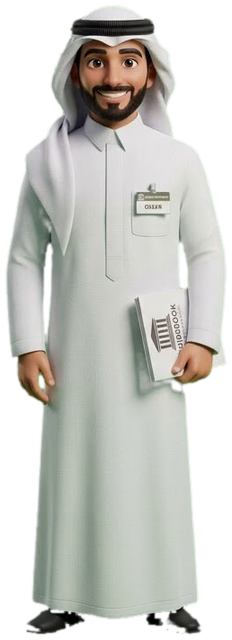
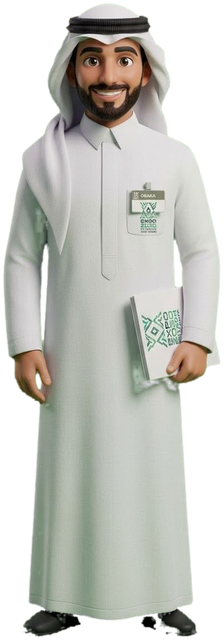
New look for Saad, architecture and page-flow diagrams
- Saad's picture replaced; cutout.py --keep-inside removes only the green
  screen (and same-coloured gaps), keeping the green Expo logo on his badge
- docs/architecture: how Saad works (page, our server, Gemini)
- docs/user-flow: the pages for the UX team (remote visit, memories, account),
  marking what is built and what still needs design

diff --git a/scripts/cutout.py b/scripts/cutout.py
@@ -4,6 +4,7 @@ The page shows web/guide.png instead of the drawn guide when the file exists (we
 
     python scripts/cutout.py guide_green.png                 # writes web/guide.png
     python scripts/cutout.py photo.jpg --key 255 255 255     # a flat white background instead of green
+    python scripts/cutout.py guide.jpg --keep-inside         # he wears something green (a logo): keep it
 
 Ask the image tool for "a perfectly flat, uniform pure chroma green (#00FF00) background": a white background
 is harder, because the white thobe touches it.
@@ -15,7 +16,7 @@ import numpy as np
 from PIL import Image, ImageFilter
 
 
-def cutout(src, key, tolerance, height):
+def cutout(src, key, tolerance, height, keep_inside=False):
     im = np.asarray(Image.open(src).convert("RGB")).astype(np.float32)
     key = np.array(key, dtype=np.float32)
     green = key[1] > key[0] + 60 and key[1] > key[2] + 60
@@ -28,10 +29,30 @@ def cutout(src, key, tolerance, height):
         dist = np.sqrt(((im - key) ** 2).sum(axis=2))
         # soft edge: fully clear near the key colour, fully solid a little further away
         alpha = np.clip((dist - tolerance) / (tolerance * 0.6), 0, 1)
+    near = np.ones(alpha.shape, bool)
+    if green and keep_inside:
+        # Only the screen goes, not green that is part of him (a logo on his badge or book). The screen is the
+        # green touching the picture's edges, plus enclosed patches of the same light green (the gap between an
+        # arm and the body). A logo's green is darker and stays solid, with its colour.
+        from scipy import ndimage
+        patches, n = ndimage.label(alpha < 0.5)
+        edge = set(np.unique(np.concatenate([patches[0], patches[-1], patches[:, 0], patches[:, -1]]))) - {0}
+        screen_colour = np.median(im[np.isin(patches, list(edge))], axis=0)
+        ids = np.arange(1, n + 1)
+        size = ndimage.sum(np.ones_like(patches), patches, ids)
+        colour = np.stack([ndimage.mean(im[..., c], patches, ids) for c in range(3)], axis=1)
+        alike = np.linalg.norm(colour - screen_colour, axis=1) < 30
+        light = (size >= 100) & (colour[:, 1] > 95)
+        is_screen = np.zeros(n + 1, bool)
+        is_screen[ids] = alike | light
+        is_screen[list(edge)] = True
+        screen = is_screen[patches] & (patches > 0)
+        alpha = np.where((patches > 0) & ~screen, 1.0, alpha)            # green that is part of him: keep
+        near = np.asarray(Image.fromarray((screen * 255).astype(np.uint8)).filter(ImageFilter.MaxFilter(9))) > 0
     if green:
         # green spill on the edges of white cloth and hair: pull green down to the other channels
         g_max = np.maximum(im[..., 0], im[..., 2])
-        im[..., 1] = np.minimum(im[..., 1], g_max + 12)
+        im[..., 1] = np.where(near, np.minimum(im[..., 1], g_max + 12), im[..., 1])
     rgba = np.dstack([im, alpha * 255]).astype(np.uint8)
     out = Image.fromarray(rgba, "RGBA")
     a = out.getchannel("A").filter(ImageFilter.MinFilter(3)).filter(ImageFilter.GaussianBlur(0.8))
@@ -54,8 +75,10 @@ def main():
                    help="Background colour to remove (default pure green)")
     p.add_argument("--tolerance", type=float, default=90, help="How far from the key colour still counts as background")
     p.add_argument("--height", type=int, default=640, help="Largest height in pixels (the page shows it small)")
+    p.add_argument("--keep-inside", action="store_true",
+                   help="Remove only the green around him, not green parts of his clothes (a logo)")
     args = p.parse_args()
-    out = cutout(args.image, args.key, args.tolerance, args.height)
+    out = cutout(args.image, args.key, args.tolerance, args.height, args.keep_inside)
     Path(args.out).parent.mkdir(parents=True, exist_ok=True)
     out.save(args.out, optimize=True)
     print(f"Saved {args.out} ({out.width}x{out.height}, {Path(args.out).stat().st_size // 1024} KB)")
